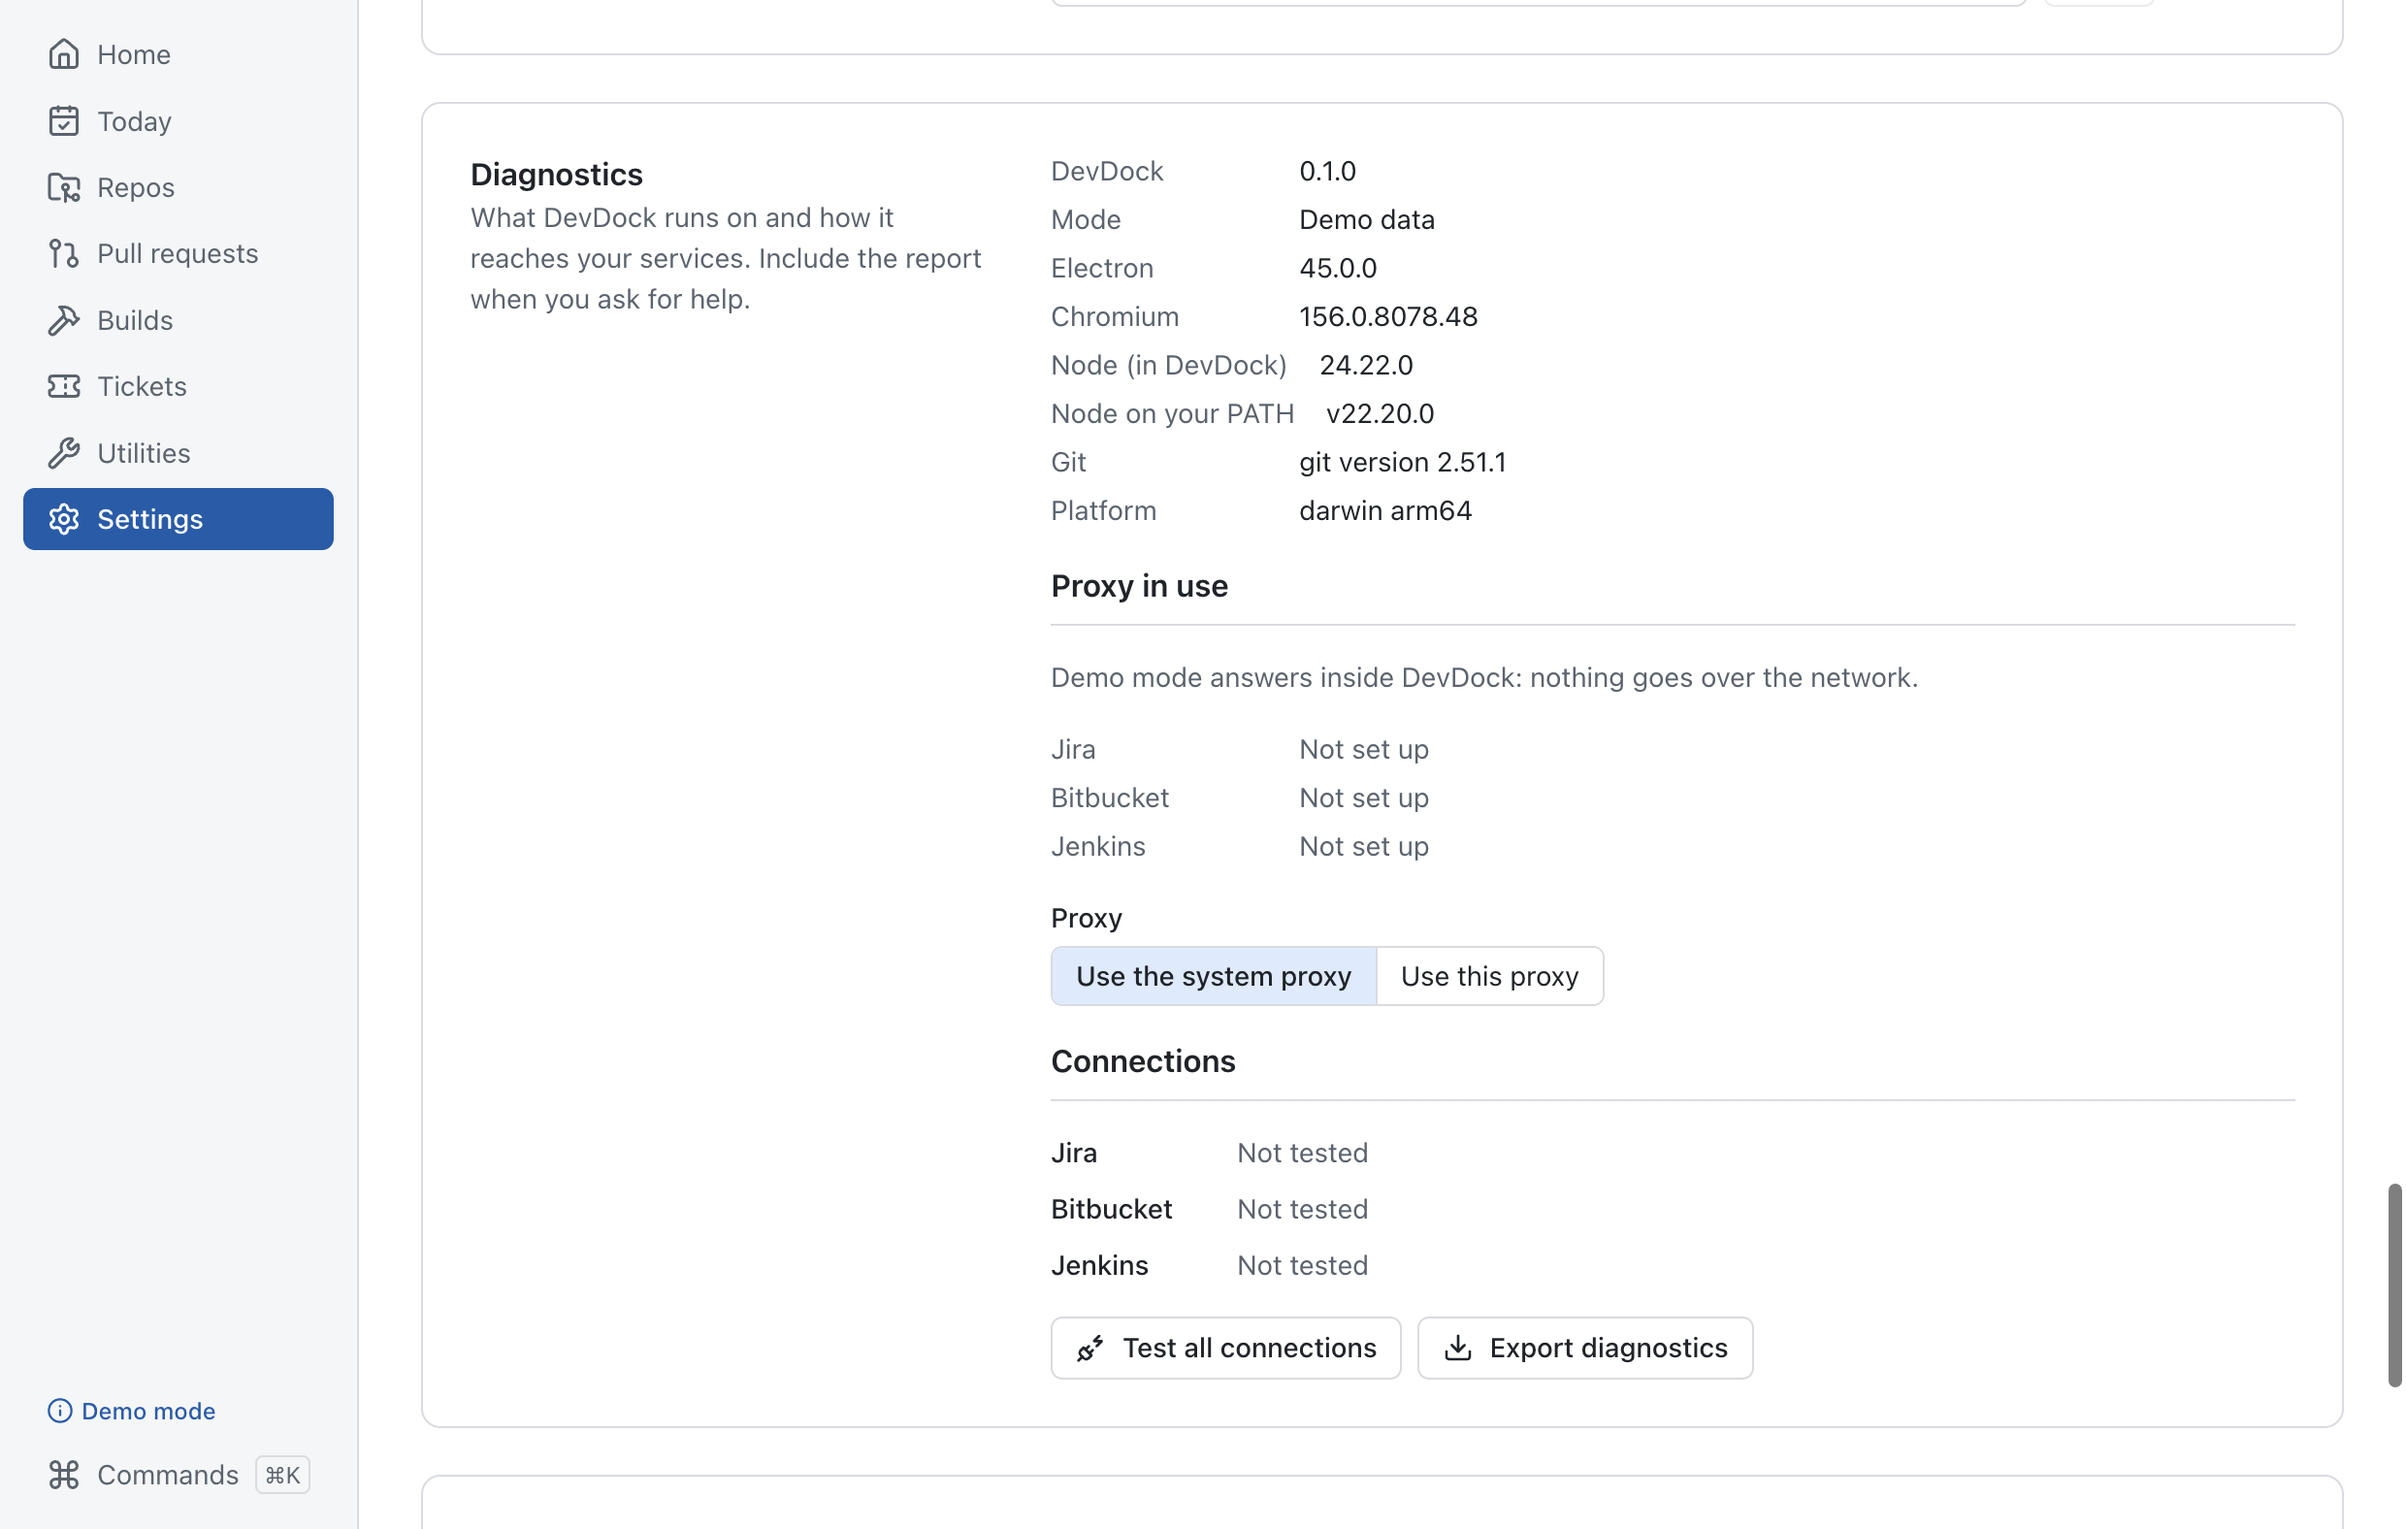
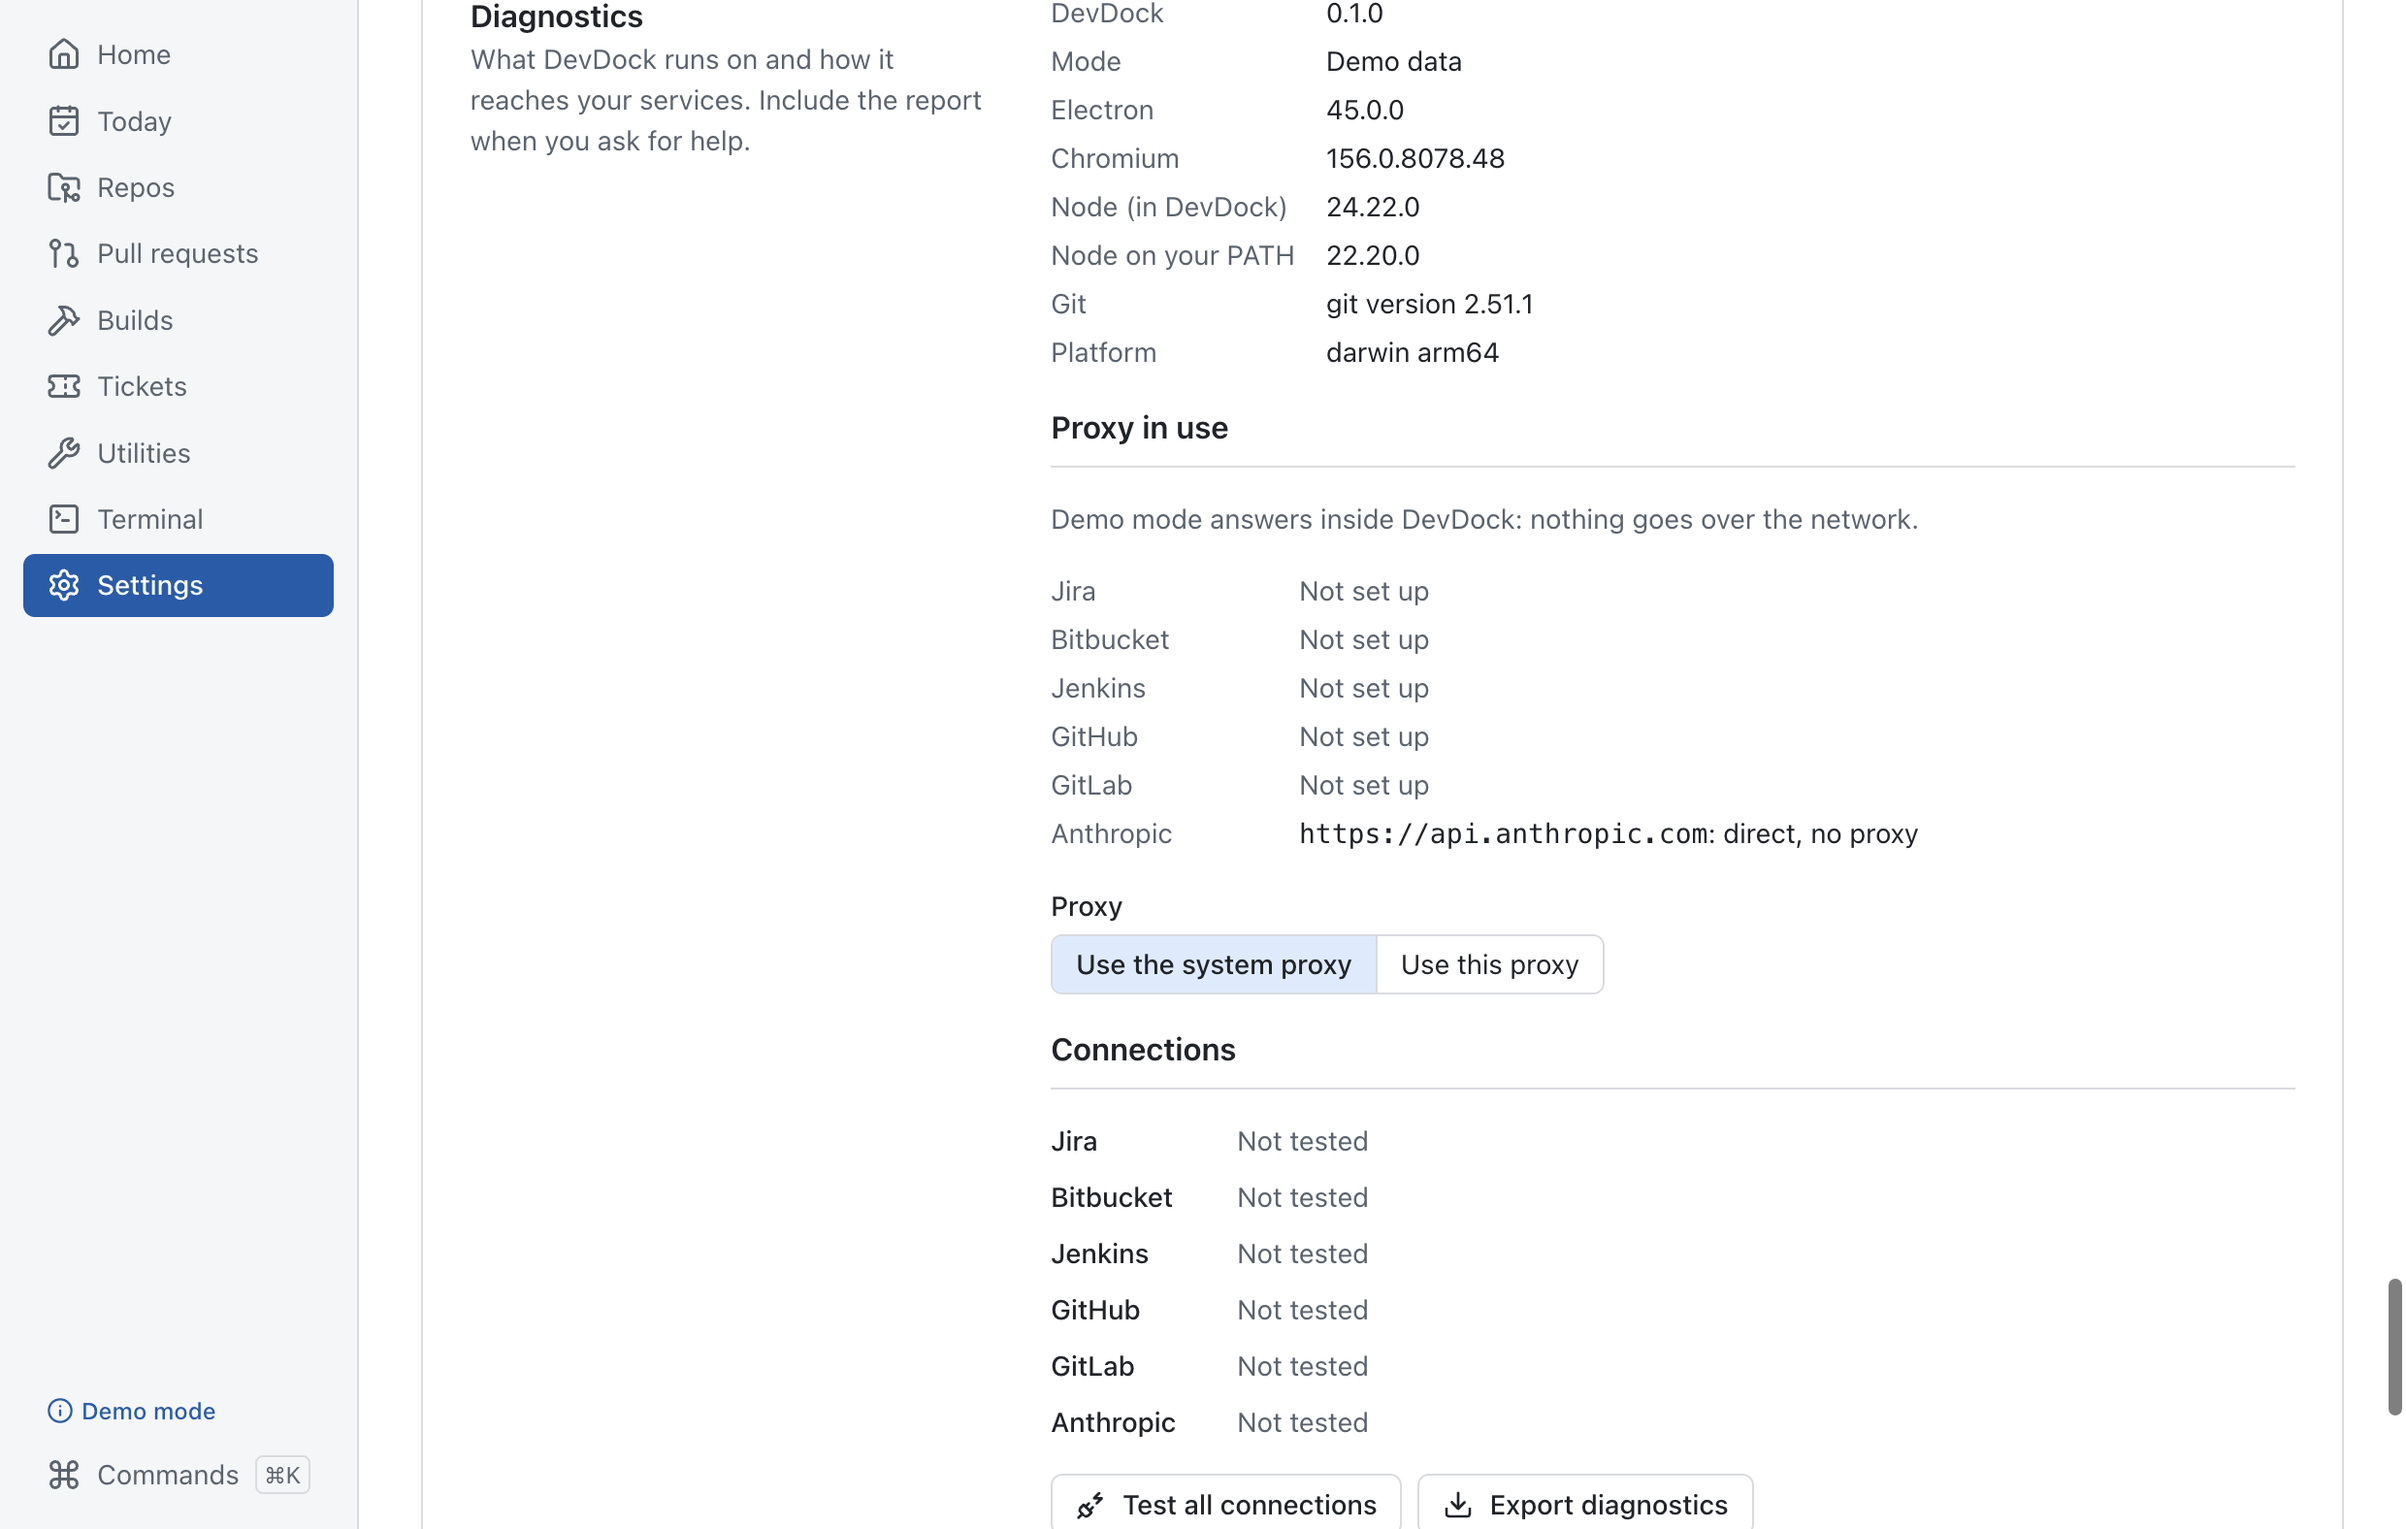
T13: fresh README screenshots (+ Settings → AI, AI preview, agent offer)

diff --git a/tests/e2e/screenshots.spec.ts b/tests/e2e/screenshots.spec.ts
@@ -1,4 +1,4 @@
-import { mkdirSync, mkdtempSync, rmSync } from 'node:fs'
+import { chmodSync, mkdirSync, mkdtempSync, rmSync, writeFileSync } from 'node:fs'
 import { tmpdir } from 'node:os'
 import { join } from 'node:path'
 import { makeRepos } from '../fixtures/git-repos'
@@ -125,5 +125,72 @@ test('screenshots: README terminal', async () => {
     await app.close().catch(() => undefined)
     rmSync(userData, { recursive: true, force: true })
     rmSync(home, { recursive: true, force: true })
+  }
+})
+
+/** T13: AI with your own key (Settings → AI, the preview before Send) and the agent CLI offer. */
+test('screenshots: README AI and agent', async () => {
+  // A stand-in `claude` on PATH, so Start work offers "Start Claude Code now" (never run here).
+  const bin = mkdtempSync(join(tmpdir(), 'devdock-shots-bin-'))
+  writeFileSync(join(bin, 'claude'), '#!/bin/sh\nexit 0\n')
+  chmodSync(join(bin, 'claude'), 0o755)
+  const { app, win, userData } = await launch(undefined, { PATH: `${bin}:${process.env.PATH}` })
+  const clipboard = await app.evaluate(({ clipboard }) => clipboard.readText())
+  try {
+    mkdirSync(out, { recursive: true })
+    await win.evaluate(() => window.devdock.settings.update({ appearance: { theme: 'light' } }))
+    const nav = (label: string) =>
+      win
+        .getByRole('navigation', { name: 'Main' })
+        .getByRole('button', { name: label, exact: true })
+        .click()
+    const shot = (name: string) =>
+      win.screenshot({ path: join(out, `readme-${name}.png`), animations: 'disabled' })
+
+    await nav('Settings')
+    // The AI section at the top of the pane.
+    await win.locator('#ai-title').evaluate((h) => h.closest('section')?.scrollIntoView())
+    await shot('settings-ai')
+
+    await nav('Pull requests')
+    await win
+      .getByRole('button', { name: /^Draft a status note for web-app #412 with Claude$/ })
+      .click()
+    const ai = win.getByRole('dialog', { name: 'Draft a status note' })
+    await expect(ai.getByRole('button', { name: 'Send to Claude' })).toBeVisible()
+    await shot('ai')
+    await ai.getByRole('button', { name: 'Cancel' }).click()
+
+    // A short, neutral folder: the done step shows the brief's path and git's output.
+    const shortTmp = '/tmp/devdock-demo'
+    mkdirSync(shortTmp, { recursive: true })
+    const savedTmp = process.env.TMPDIR
+    process.env.TMPDIR = shortTmp
+    try {
+      repos = makeRepos()
+    } finally {
+      process.env.TMPDIR = savedTmp
+    }
+    await win.evaluate((p) => window.devdock.repos.add({ path: p }), repos.clone)
+    await nav('Tickets')
+    await win.getByRole('button', { name: /^DD-101\b/ }).click()
+    await win
+      .getByRole('complementary', { name: 'DD-101 details' })
+      .getByRole('button', { name: 'Start work…' })
+      .click()
+    const start = win.getByRole('dialog', { name: 'Start work on DD-101' })
+    // Start work runs in the temp repo; it copies the agent message, so keep the clipboard.
+    await start.getByRole('checkbox', { name: 'Open the repo in VS Code afterwards' }).uncheck()
+    await start.getByRole('button', { name: 'Start work', exact: true }).click()
+    await expect(start.getByRole('status')).toContainText('Started work on')
+    const agent = start.getByRole('button', { name: 'Start Claude Code now' })
+    await expect(agent).toBeVisible()
+    await shot('agent')
+    await start.getByRole('button', { name: 'Close' }).click()
+  } finally {
+    await app.evaluate(({ clipboard }, text) => clipboard.writeText(text), clipboard)
+    await app.close().catch(() => undefined)
+    rmSync(userData, { recursive: true, force: true })
+    rmSync(bin, { recursive: true, force: true })
   }
 })

diff --git a/docs/PROGRESS.md b/docs/PROGRESS.md
@@ -145,8 +145,11 @@ docs-only pushes.
   the agent fixes what it finds.
 
 ### E. Final touch
-- [ ] **T13** Fresh README screenshots in demo mode (`DEVDOCK_SCREENSHOTS=1 npx playwright test
+- [x] **T13** Fresh README screenshots in demo mode (`DEVDOCK_SCREENSHOTS=1 npx playwright test
   screenshots`), new ones for Settings → AI, the AI dialog and an agent tab; look at every image.
+  Done 2026-11-01 (quiet mode: screenshots render without visible windows): 12 refreshed + 3 new
+  (`readme-settings-ai`, `readme-ai`, `readme-agent`), all looked at. The agent shot is Start work
+  offering "Start Claude Code now" (real DevDock UI) rather than a fake CLI's output in a tab.
 - [ ] **T14** Website refresh: `sh website/scripts/images.sh` after T13, `node
   website/scripts/og-image.mjs` if the card changes; final copy read (features from T6/T7, signing
   status from T8); Lighthouse + axe on the built site.
@@ -802,3 +805,4 @@ Next step: owner review → merge `p7-providers` into `main`.
 | 2026-11-01 | Quiet e2e | Owner: test windows disturbed other work. e2e runs now invisible (opacity 0, never focused, no Dock icon, no system notifications); `DEVDOCK_E2E_VISIBLE=1` to watch. Full e2e in quiet mode, run in the background: 70 / 5 skipped (same as visible). | T10 |
 | 2026-11-01 | T10 | Whole-product QA in demo mode: audit extended (GitHub/GitLab, terminal, dialogs, 16 Settings sections, both palettes; 263 screenshots reviewed), new axe + keyboard tests for the T4/T5 UI. Fixed: Home Builds copy, Builds watch field at 18 px, "Paste key" for the API key, quiet e2e windows let clicks through, branch-switch follower ordering, crash logging, two test races. lint 0; vitest 938 / 1 skipped; e2e 72 / 5 skipped; audit passed. | T11 |
 | 2026-11-01 | T11 | Code review (Standards + Spec, parallel) of 2b8cfff...HEAD: T11a cleanups, T11b CI actions in the palette, T11c terminal tab close confirmation (owner chose "ask only if something runs"). lint 0; vitest 940 / 1 skipped; e2e 74 / 5 skipped (full run), then terminal + a11y + agents 12/12 after a React Compiler lint fix. | T12 |
+| 2026-11-01 | T13 | README screenshots refreshed in quiet mode + 3 new (Settings → AI, AI preview, Start work offering an agent); README terminal copy updated for the T11c close prompt. | T14 |

diff --git a/README.md b/README.md
@@ -110,6 +110,8 @@ now**, which opens it in a DevDock terminal tab in the repo with the message as 
 
 ![Agent lessons](docs/screenshots/readme-lessons.png)
 
+![Start work offering Claude Code](docs/screenshots/readme-agent.png)
+
 **Utilities** — ports (who's listening, stop it safely), clean build caches, env profiles
 (switch `.env.local` safely; values stay encrypted and masked), quick links, and a standup draft
 from your own commits, PRs and ticket moves.
@@ -120,7 +122,8 @@ in Terminal.app, in colours matched to each DevDock theme. Open one in a repo fr
 menu-bar panel or the palette (`terminal <repo>`). Find (`⌘F`), copy, paste, clear; `F6` leaves
 the terminal for the rest of the app. No oh-my-zsh? Settings → Terminal → **Use DevDock prompt**
 gives zsh and bash a robbyrussell-style prompt with the git branch — your `.zshrc` is never
-changed. Closing a tab or quitting DevDock stops the shell and what it started.
+changed. Closing a tab stops the shell and what it started — if something is still running in
+it (a dev server, an agent), DevDock asks first; quitting DevDock stops them all.
 
 ![Terminal](docs/screenshots/readme-terminal.png)
 
@@ -130,6 +133,10 @@ standup. Each request is shown before it goes — the exact text, the model (Cla
 default; Sonnet 5.5 and Haiku 5.5 in Settings) and about what it costs — and is sent only when
 you press Send. You pay Anthropic directly; DevDock ships no key. Demo mode answers with samples
 on your computer.
+
+![Settings → AI](docs/screenshots/readme-settings-ai.png)
+
+![A status note, shown before it is sent](docs/screenshots/readme-ai.png)
 
 **Command palette** — every action, searchable: `⌘K` in the app, or the global shortcut from
 any app. It takes arguments: `watch <PR link>`, `pipeline <PR link>`, `branch NM-1234`,

diff --git a/CLAUDE.md b/CLAUDE.md
@@ -9,7 +9,7 @@
    did not run.
    e2e runs are quiet (invisible windows, no focus, no Dock icon, no system notifications) so
    they don't disturb the owner: run long suites in the background. `DEVDOCK_E2E_VISIBLE=1`
-   shows the windows (to watch a run, or for the screenshot specs).
+   shows the windows to watch a run; screenshots render fine without it.
 4. Project skills in `.claude/skills/` (pinned in `skills-lock.json`), approved by the user:
    - `frontend-design` + `vercel-react-best-practices` for renderer work. `docs/UI-THEMES.md`
      wins over any aesthetic advice, and the Next.js/server rules don't apply.
